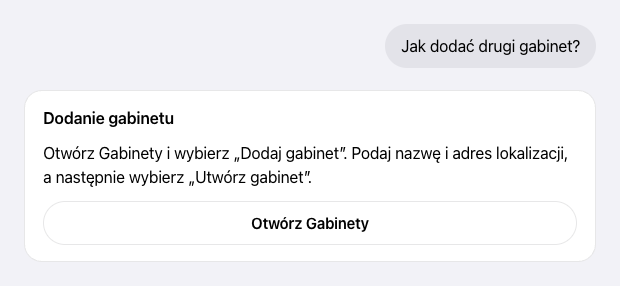
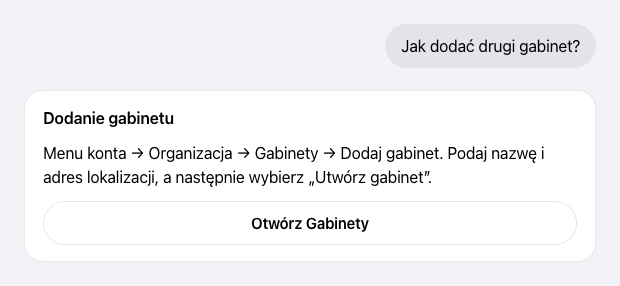
fix(chat): pokaż pełną ścieżkę od menu konta

Changed region(s): [[0.0613, 0.5035, 0.9194, 0.5594], [0.0613, 0.5874, 0.7048, 0.6713]]

diff --git a/src/features/ai-view/catalog/__tests__/ProductHelpCard.test.tsx b/src/features/ai-view/catalog/__tests__/ProductHelpCard.test.tsx
@@ -48,7 +48,8 @@ describe('product help cards', () => {
     expect(screen.queryByRole('link')).toBeNull();
     state.manage = true;
     rerender(<ProductHelpCard {...props} />);
-    expect(screen.getByRole('link')).toHaveAttribute('href', '/organization?tab=clinics');
+    expect(screen.getByText(/Menu konta → Organizacja → Gabinety → Dodaj gabinet/)).toBeInTheDocument();
+    expect(screen.getByRole('link', { name: 'Otwórz Gabinety' })).toHaveAttribute('href', '/organization?tab=clinics');
   });
 
   it('respects the referrals flag independently of team management', () => {

diff --git a/src/features/ai-view/catalog/ProductHelpCard.tsx b/src/features/ai-view/catalog/ProductHelpCard.tsx
@@ -48,7 +48,7 @@ const guides = {
   },
   clinic: {
     title: 'Dodanie gabinetu',
-    text: 'Otwórz Gabinety i wybierz „Dodaj gabinet”. Podaj nazwę i adres lokalizacji, a następnie wybierz „Utwórz gabinet”.',
+    text: 'Menu konta → Organizacja → Gabinety → Dodaj gabinet. Podaj nazwę i adres lokalizacji, a następnie wybierz „Utwórz gabinet”.',
     link: { href: '/organization?tab=clinics', label: 'Otwórz Gabinety' },
   },
   team: {

diff --git a/docs/funkcje/czat-ai.md b/docs/funkcje/czat-ai.md
@@ -4,7 +4,7 @@
 
 Czat jest domyślnym widokiem pulpitu (`src/features/ai-view/AGENTS.md`): fizjoterapeuta pisze, czego potrzebuje, a czat odpowiada zdaniem i co najwyżej jedną kartą (wyniki ćwiczeń, szkic zestawu, podsumowanie przypisania, nowy pacjent). Copilot proponuje, człowiek zatwierdza: każda zmiana danych to karta z przyciskiem. Kredyty AI to pula gabinetu; gdy się kończy, panel ostrzega i pozwala poprosić o więcej. Miarą są minuty oszczędzone po wizycie.
 
-Pomoc produktowa działa również bez kredytów. Czat pokazuje ścieżki dodania gabinetu, zaproszeń, poleceń i widoczności pacjentów zgodnie z dostępem do funkcji. Przycisk „Otwórz Gabinety” prowadzi na `/organization?tab=clinics`. Właściciel lub administrator wybiera tam „Dodaj gabinet”. Ręcznie ten ekran otwiera się przez „Organizacja” w menu konta czatu albo „Zespół” w menu konta widoku klasycznego. Pytanie o brak zestawu na telefonie rozpoczyna sprawdzenie połączenia z gabinetem i przypisania. Z karty zgłoszenia terapeuta otwiera istniejący formularz, sprawdza opis i decyduje o wysyłce. Pytania o materiały prowadzą do instrukcji pacjenta, bloga lub strony FiziYo. Nowości portalu pochodzą z opublikowanych wydań, a nowości pacjenta można sprawdzić w profilu aplikacji mobilnej.
+Pomoc produktowa działa również bez kredytów. Czat pokazuje ścieżki dodania gabinetu, zaproszeń, poleceń i widoczności pacjentów zgodnie z dostępem do funkcji. Karta pokazuje pełną ścieżkę w widoku czatu „Menu konta → Organizacja → Gabinety → Dodaj gabinet”. Przycisk „Otwórz Gabinety” prowadzi na `/organization?tab=clinics`. Właściciel lub administrator wybiera tam „Dodaj gabinet”. Ręcznie ten ekran otwiera się przez „Organizacja” w menu konta czatu albo „Zespół” w menu konta widoku klasycznego. Pytanie o brak zestawu na telefonie rozpoczyna sprawdzenie połączenia z gabinetem i przypisania. Z karty zgłoszenia terapeuta otwiera istniejący formularz, sprawdza opis i decyduje o wysyłce. Pytania o materiały prowadzą do instrukcji pacjenta, bloga lub strony FiziYo. Nowości portalu pochodzą z opublikowanych wydań, a nowości pacjenta można sprawdzić w profilu aplikacji mobilnej.
 
 ## Jak dotrzeć
 
